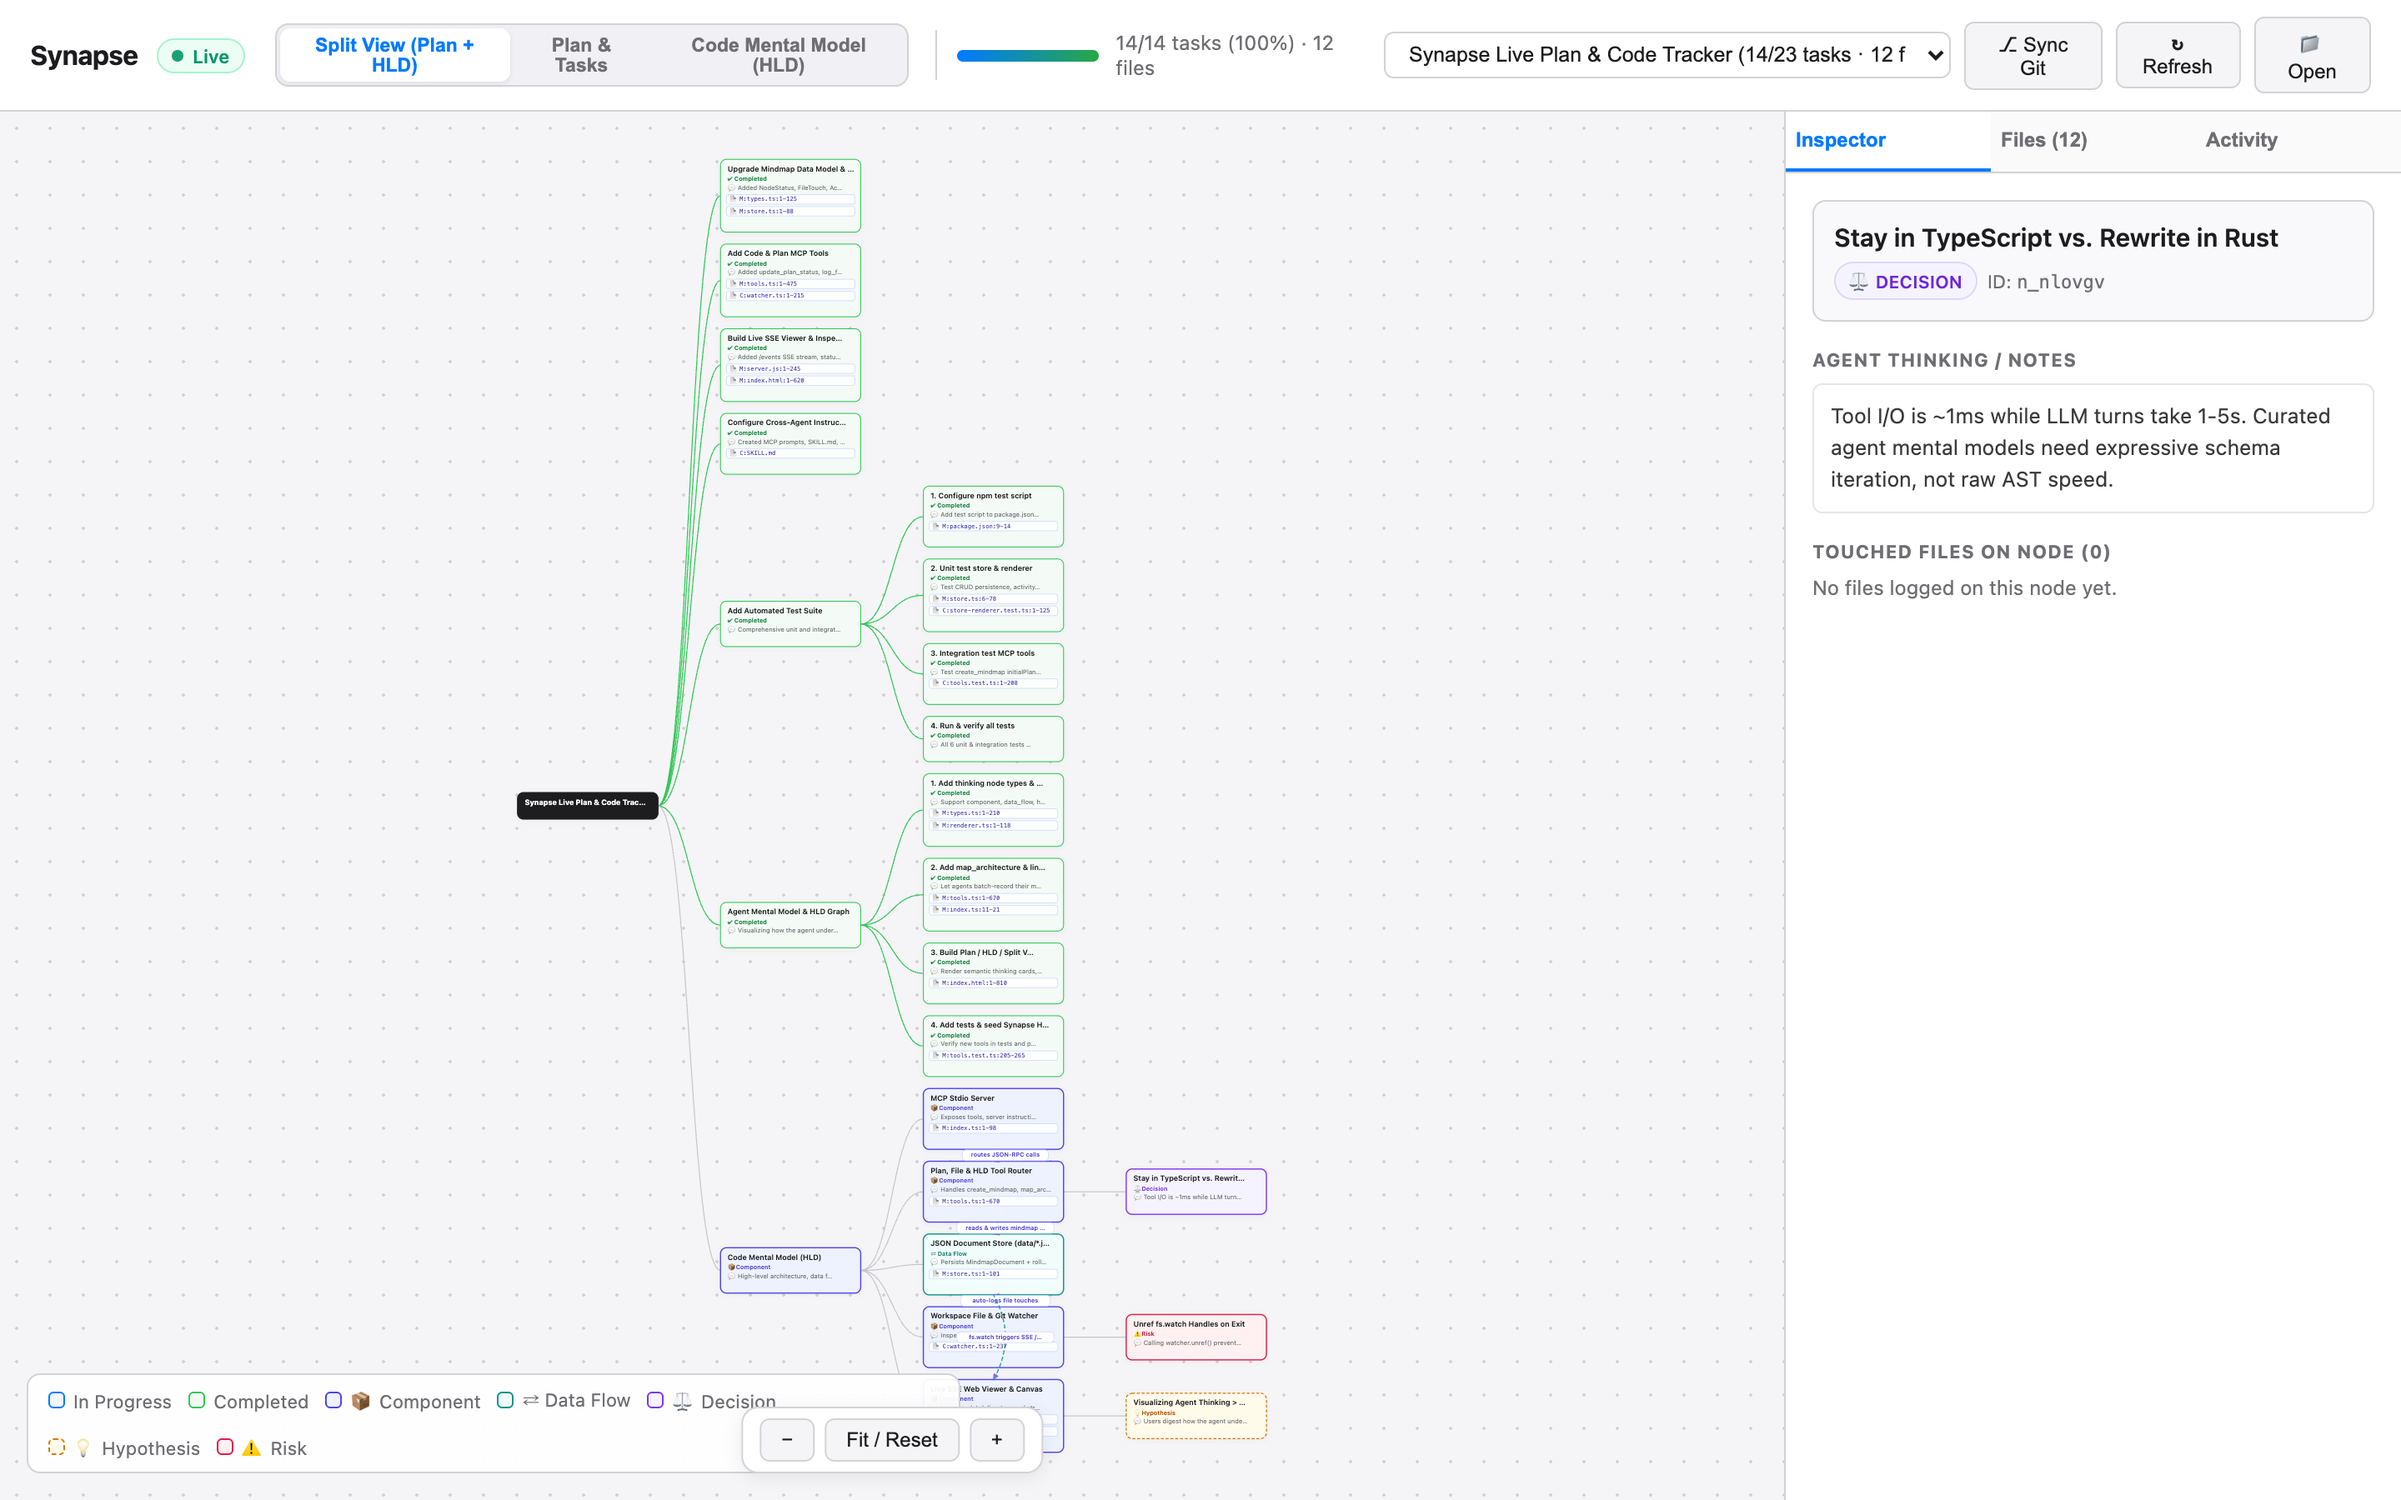
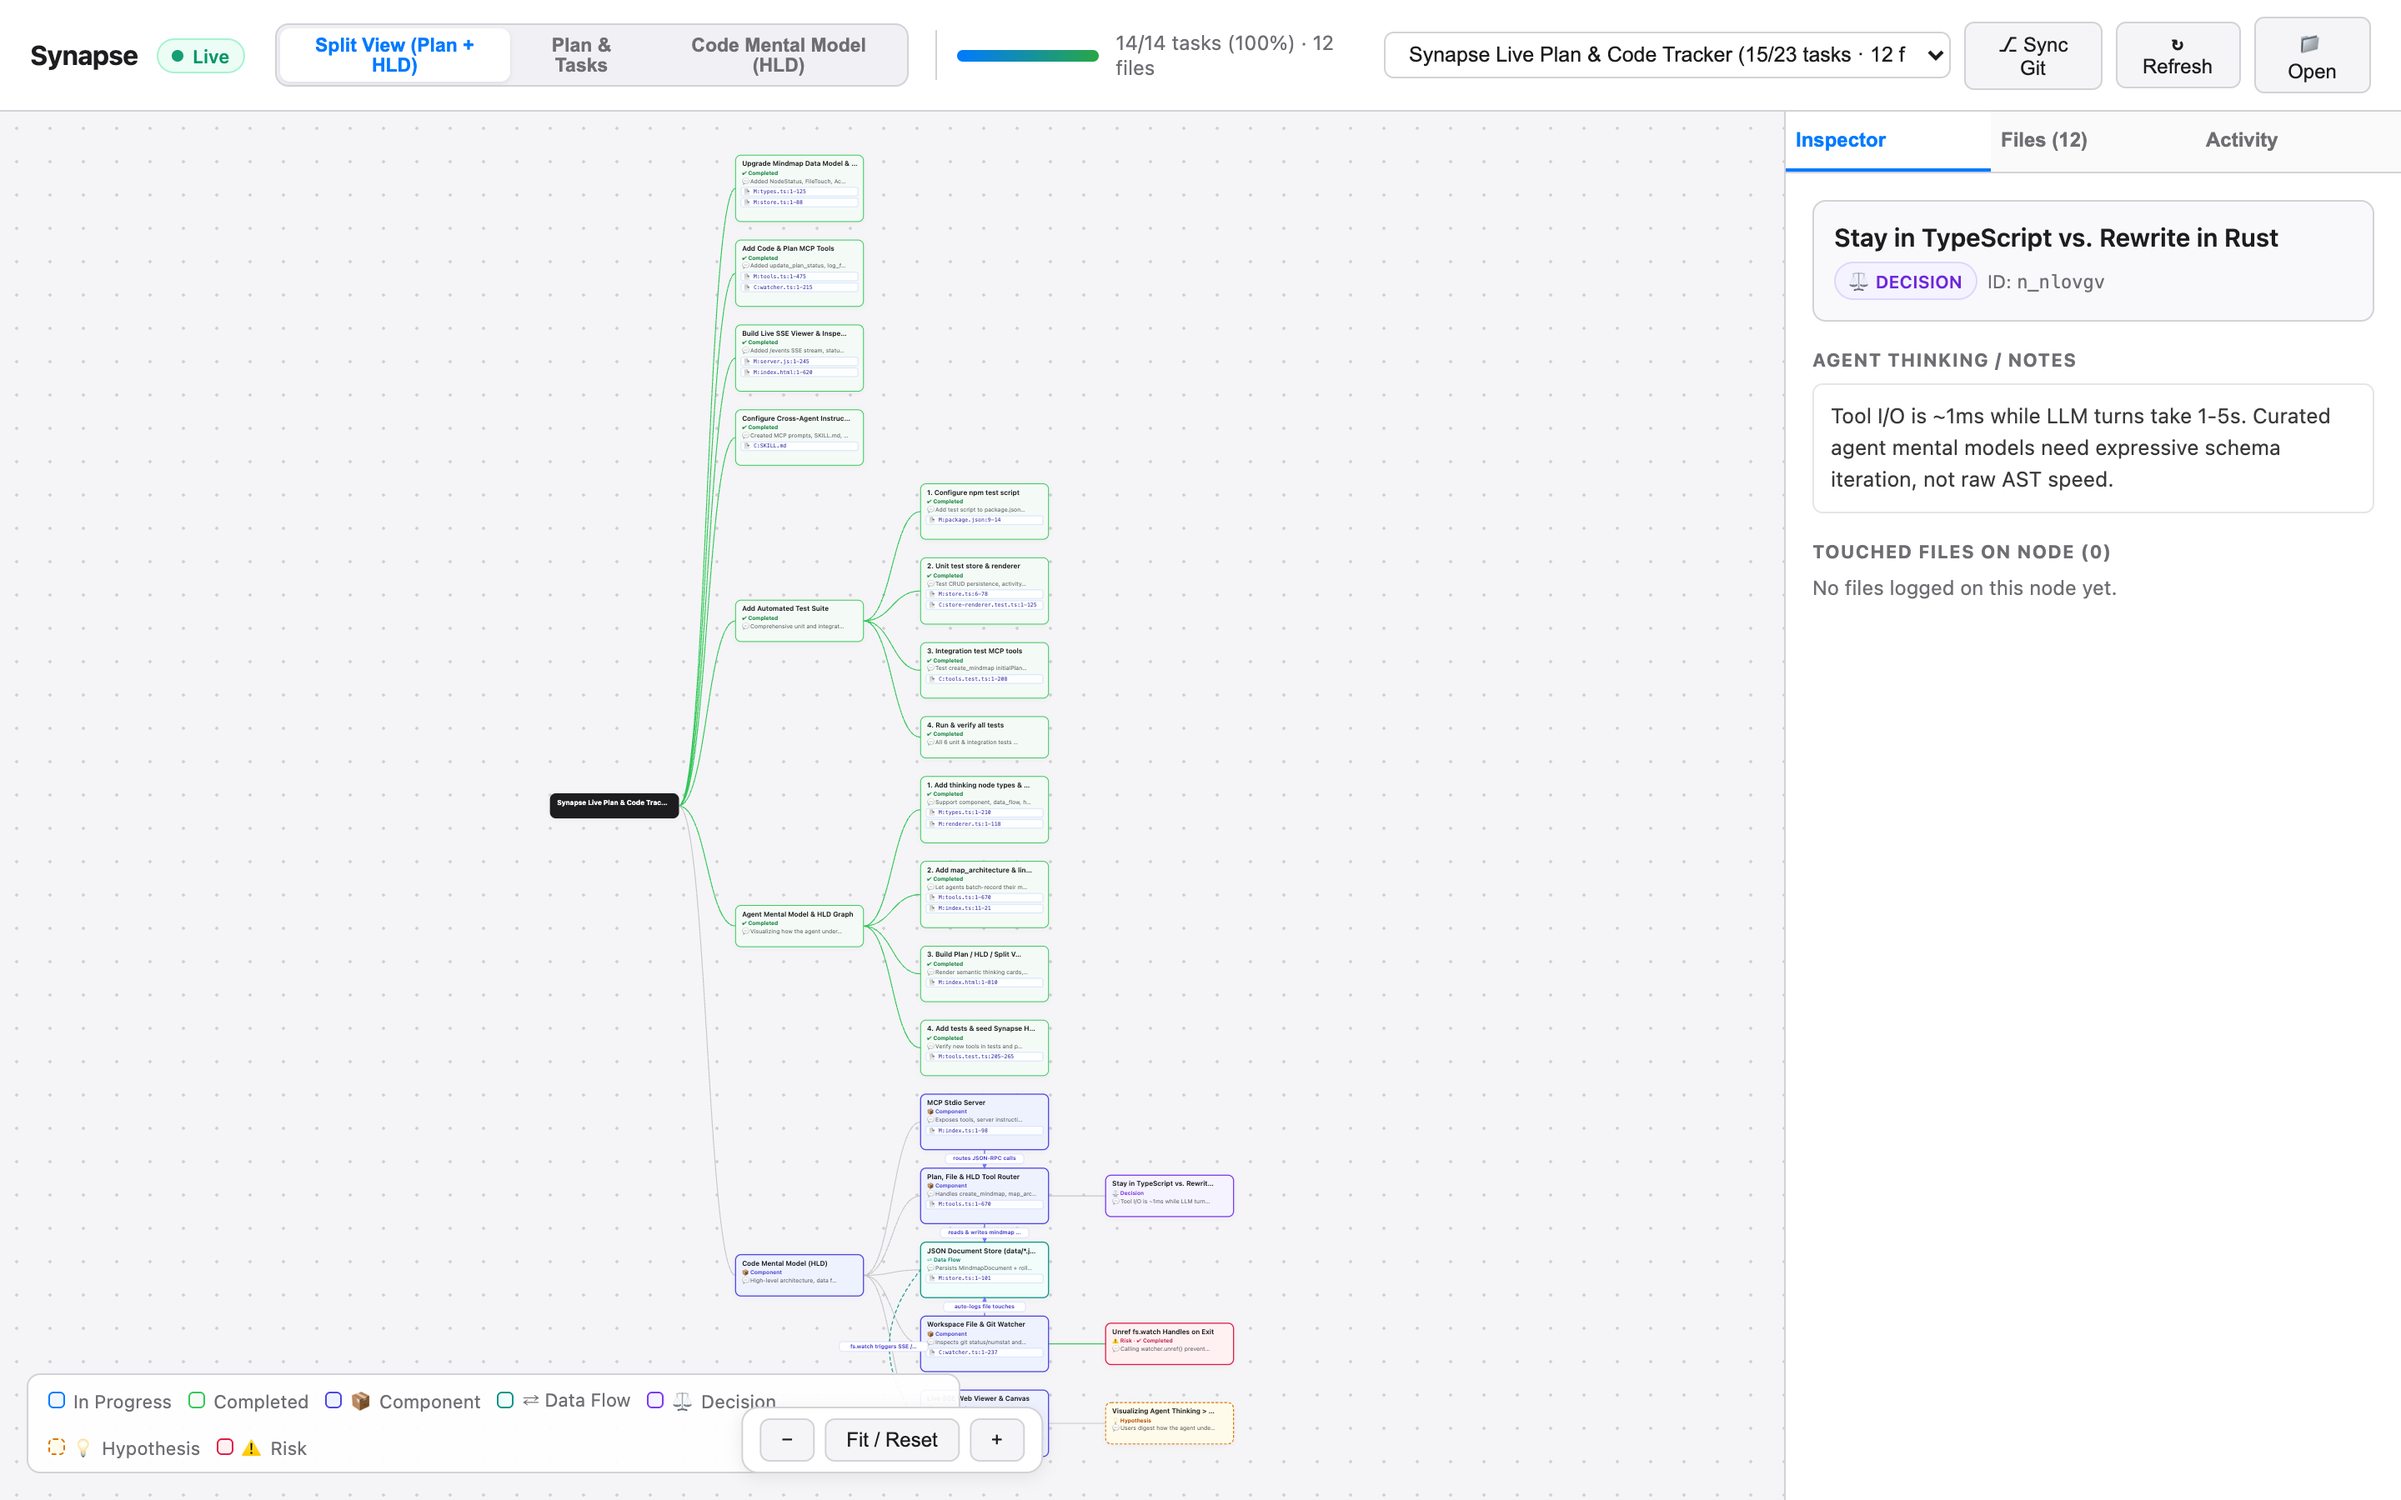
fix(viewer): route HLD flow links around sibling cards and update screenshots

Changed region(s): [[0.2812, 0.0933, 0.5312, 0.9644], [0.2188, 0.5289, 0.2812, 0.56]]

diff --git a/viewer/index.html b/viewer/index.html
@@ -777,7 +777,7 @@ function layoutTree(doc) {
   if (!nodes || !nodes["root"]) return null;
 
   const LEVEL_GAP = 105;
-  const SIBLING_GAP = 20;
+  const SIBLING_GAP = 34;
   const sizes = {};
   const subtreeHeights = {};
 
@@ -975,25 +975,52 @@ function render(doc) {
     const pTo = positions[link.to];
     if (!pFrom || !pTo) continue;
 
-    const x1 = pFrom.x + OFX + pFrom.w / 2;
-    const y1 = pFrom.y + OFY + (pTo.y >= pFrom.y ? pFrom.h / 2 : -pFrom.h / 2);
-    const x2 = pTo.x + OFX + pTo.w / 2;
-    const y2 = pTo.y + OFY + (pTo.y >= pFrom.y ? -pTo.h / 2 : pTo.h / 2);
+    const sameColumn = Math.abs(pFrom.x - pTo.x) < 20;
+    const verticalDist = Math.abs(pTo.y - pFrom.y);
+    const skipsIntermediateCard = sameColumn && verticalDist > (pFrom.h + pTo.h) / 2 + 45;
 
-    const dx = x2 - x1;
-    const dy = y2 - y1;
-    const curveOffset = Math.max(40, Math.min(110, Math.hypot(dx, dy) * 0.25));
-    const cx = (x1 + x2) / 2 + curveOffset;
-    const cy = (y1 + y2) / 2;
+    let x1, y1, x2, y2, cx, cy, mx, my;
+
+    if (skipsIntermediateCard) {
+      // Route cleanly along the left gutter of the column so it never crosses over intermediate sibling cards
+      x1 = pFrom.x + OFX;
+      y1 = pFrom.y + OFY;
+      x2 = pTo.x + OFX;
+      y2 = pTo.y + OFY;
+      cx = x1 - 115;
+      cy = (y1 + y2) / 2;
+      mx = x1 - 68;
+      my = cy;
+    } else if (sameColumn) {
+      // Adjacent cards in the same column: connect bottom-center to top-center
+      const goingDown = pTo.y >= pFrom.y;
+      x1 = pFrom.x + OFX + pFrom.w / 2;
+      y1 = pFrom.y + OFY + (goingDown ? pFrom.h / 2 : -pFrom.h / 2);
+      x2 = pTo.x + OFX + pTo.w / 2;
+      y2 = pTo.y + OFY + (goingDown ? -pTo.h / 2 : pTo.h / 2);
+      cx = x1;
+      cy = (y1 + y2) / 2;
+      mx = x1;
+      my = cy;
+    } else {
+      x1 = pFrom.x + OFX + pFrom.w / 2;
+      y1 = pFrom.y + OFY + (pTo.y >= pFrom.y ? pFrom.h / 2 : -pFrom.h / 2);
+      x2 = pTo.x + OFX + pTo.w / 2;
+      y2 = pTo.y + OFY + (pTo.y >= pFrom.y ? -pTo.h / 2 : pTo.h / 2);
+      const dx = x2 - x1;
+      const dy = y2 - y1;
+      const curveOffset = Math.max(40, Math.min(110, Math.hypot(dx, dy) * 0.25));
+      cx = (x1 + x2) / 2 + curveOffset;
+      cy = (y1 + y2) / 2;
+      mx = 0.25 * x1 + 0.5 * cx + 0.25 * x2;
+      my = 0.25 * y1 + 0.5 * cy + 0.25 * y2;
+    }
 
     const styleCls = link.style || "solid";
     flowLinksSvg += `
       <path class="flow-link ${escXml(styleCls)}" marker-end="url(#flow-arrow)" d="M${x1},${y1} Q${cx},${cy} ${x2},${y2}"/>
     `;
 
-    // Midpoint on quadratic bezier: B(0.5) = 0.25*P0 + 0.5*P1 + 0.25*P2
-    const mx = 0.25 * x1 + 0.5 * cx + 0.25 * x2;
-    const my = 0.25 * y1 + 0.5 * cy + 0.25 * y2;
     const lbl = truncate(link.label, 24);
     const pillW = Math.max(54, lbl.length * 6.2 + 14);
     flowLinksSvg += `
